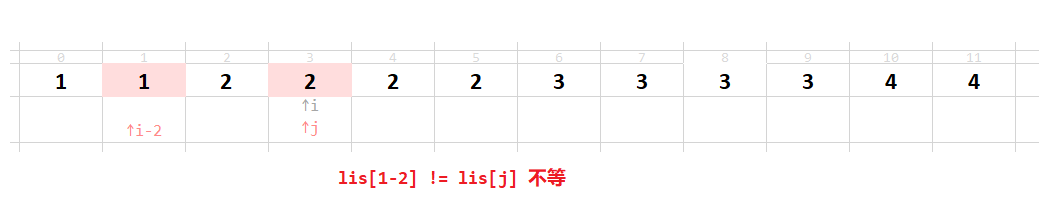
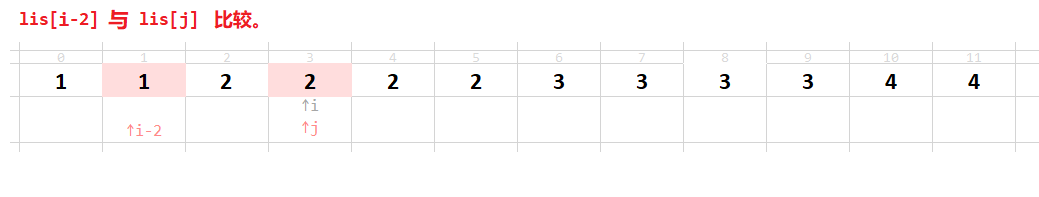
sliding windows notes

Changed region(s): [[0.308, 0.8528, 0.5544, 0.9746], [0.0, 0.0609, 0.2464, 0.1523]]

diff --git a/算法与数据结构/数据结构与算法进阶/23_____SlidingWindows/code/3_Remove_Element.py b/算法与数据结构/数据结构与算法进阶/23_____SlidingWindows/code/3_Remove_Element.py
@@ -1,0 +1,15 @@
+
+
+
+
+def removeElement(nums, val):
+    i = 0
+    for j in range(len(nums)):
+        if nums[j] != val:
+            nums[i] = nums[j]
+            i += 1
+    return i
+
+nums = [3, 2, 2, 3]
+val = 3
+print(removeElement(nums, val))

diff --git a/算法与数据结构/数据结构与算法进阶/23_____SlidingWindows/SlidingWindows.md b/算法与数据结构/数据结构与算法进阶/23_____SlidingWindows/SlidingWindows.md
@@ -7,7 +7,7 @@
 # 练习
 
 
-## . 删除重复元素 | Remove Duplicates from Sorted Array
+## 1. 删除重复元素 | Remove Duplicates from Sorted Array
 **题：** <sup style="color:#ccc">23-01 00:05:38~00:08:26</sup>
 
 给定一个 **==排序==** 数组，<u>删除重复出现的元素</u>（只保留此元素的一个），
@@ -44,39 +44,60 @@ def removeDuplicates(lis):
 ---
 
 
-## . 删除重复元素 2
+## 2. 删除重复元素 2
 **题：** <sup style="color:#ccc">23-02 00:02:07~00:03:01</sup>
 上一题的基础上，允许最后返回的数组中重复数最多出现两次
 
 
 
 **思路：** <sup style="color:#ccc">23-02 00:03:01~00:06:15</sup>
+==**记住： 
+`i`指向的位置是下一个要置换正确数的位置。
+`i`前面的位置表示已经置换好了的子数组**==
+<img src="../img/SlidingWindow/2_Remove_Duplicates_from_Sorted_ArrayII/00.gif"></img>
 
+（如果动图思路跟不上可以自己去文件夹里面一张一张翻源图片）
 
 **code：** <sup style="color:#ccc">23-02 00:06:15~00:07:16 Ex.2</sup>
 [link](http://localhost:8888/notebooks/MyJupyterNote/old/23_____SlideWindows/22_01_.ipynb)
 ```python
-
+def removeDuplicates2(nums):
+    if not nums:
+        return 0
+    
+    i = 0
+    for j in range(len(nums)):
+        if nums[i-2] != nums[j] or (i < 2):
+            nums[i] = nums[j]
+            i += 1
+    return i
 ```
 
 
 ---
 
 
-## . 
-**题：** <sup style="color:#ccc"></sup>
+## 3. 删除元素 Remove Element
+**题：** <sup style="color:#ccc">23-03 00:00:09~00:00:53</sup>
+
+给定一个数组 **`nums`** 和一个值 **`val`**，
+就地(**==in-place==**)删除这个 val 的所有实例，并返回新的数组的长度。
+(注意没讲数组有没有排序)
 
 
+**思路：** <sup style="color:#ccc">23-03 00:00:57~00:02:33</sup>
 
 
-
-**思路：** <sup style="color:#ccc"></sup>
-
-
-**code：** <sup style="color:#ccc"> Ex.</sup>
+**code：** <sup style="color:#ccc">23-03 00:02:35~ Ex.</sup>
 [link]()
 ```python
-
+def removeElement(nums, val):
+    i = 0
+    for j in range(len(nums)):
+        if nums[j] != val:
+            nums[i] = nums[j]
+            i += 1
+    return i
 ```
 
 
